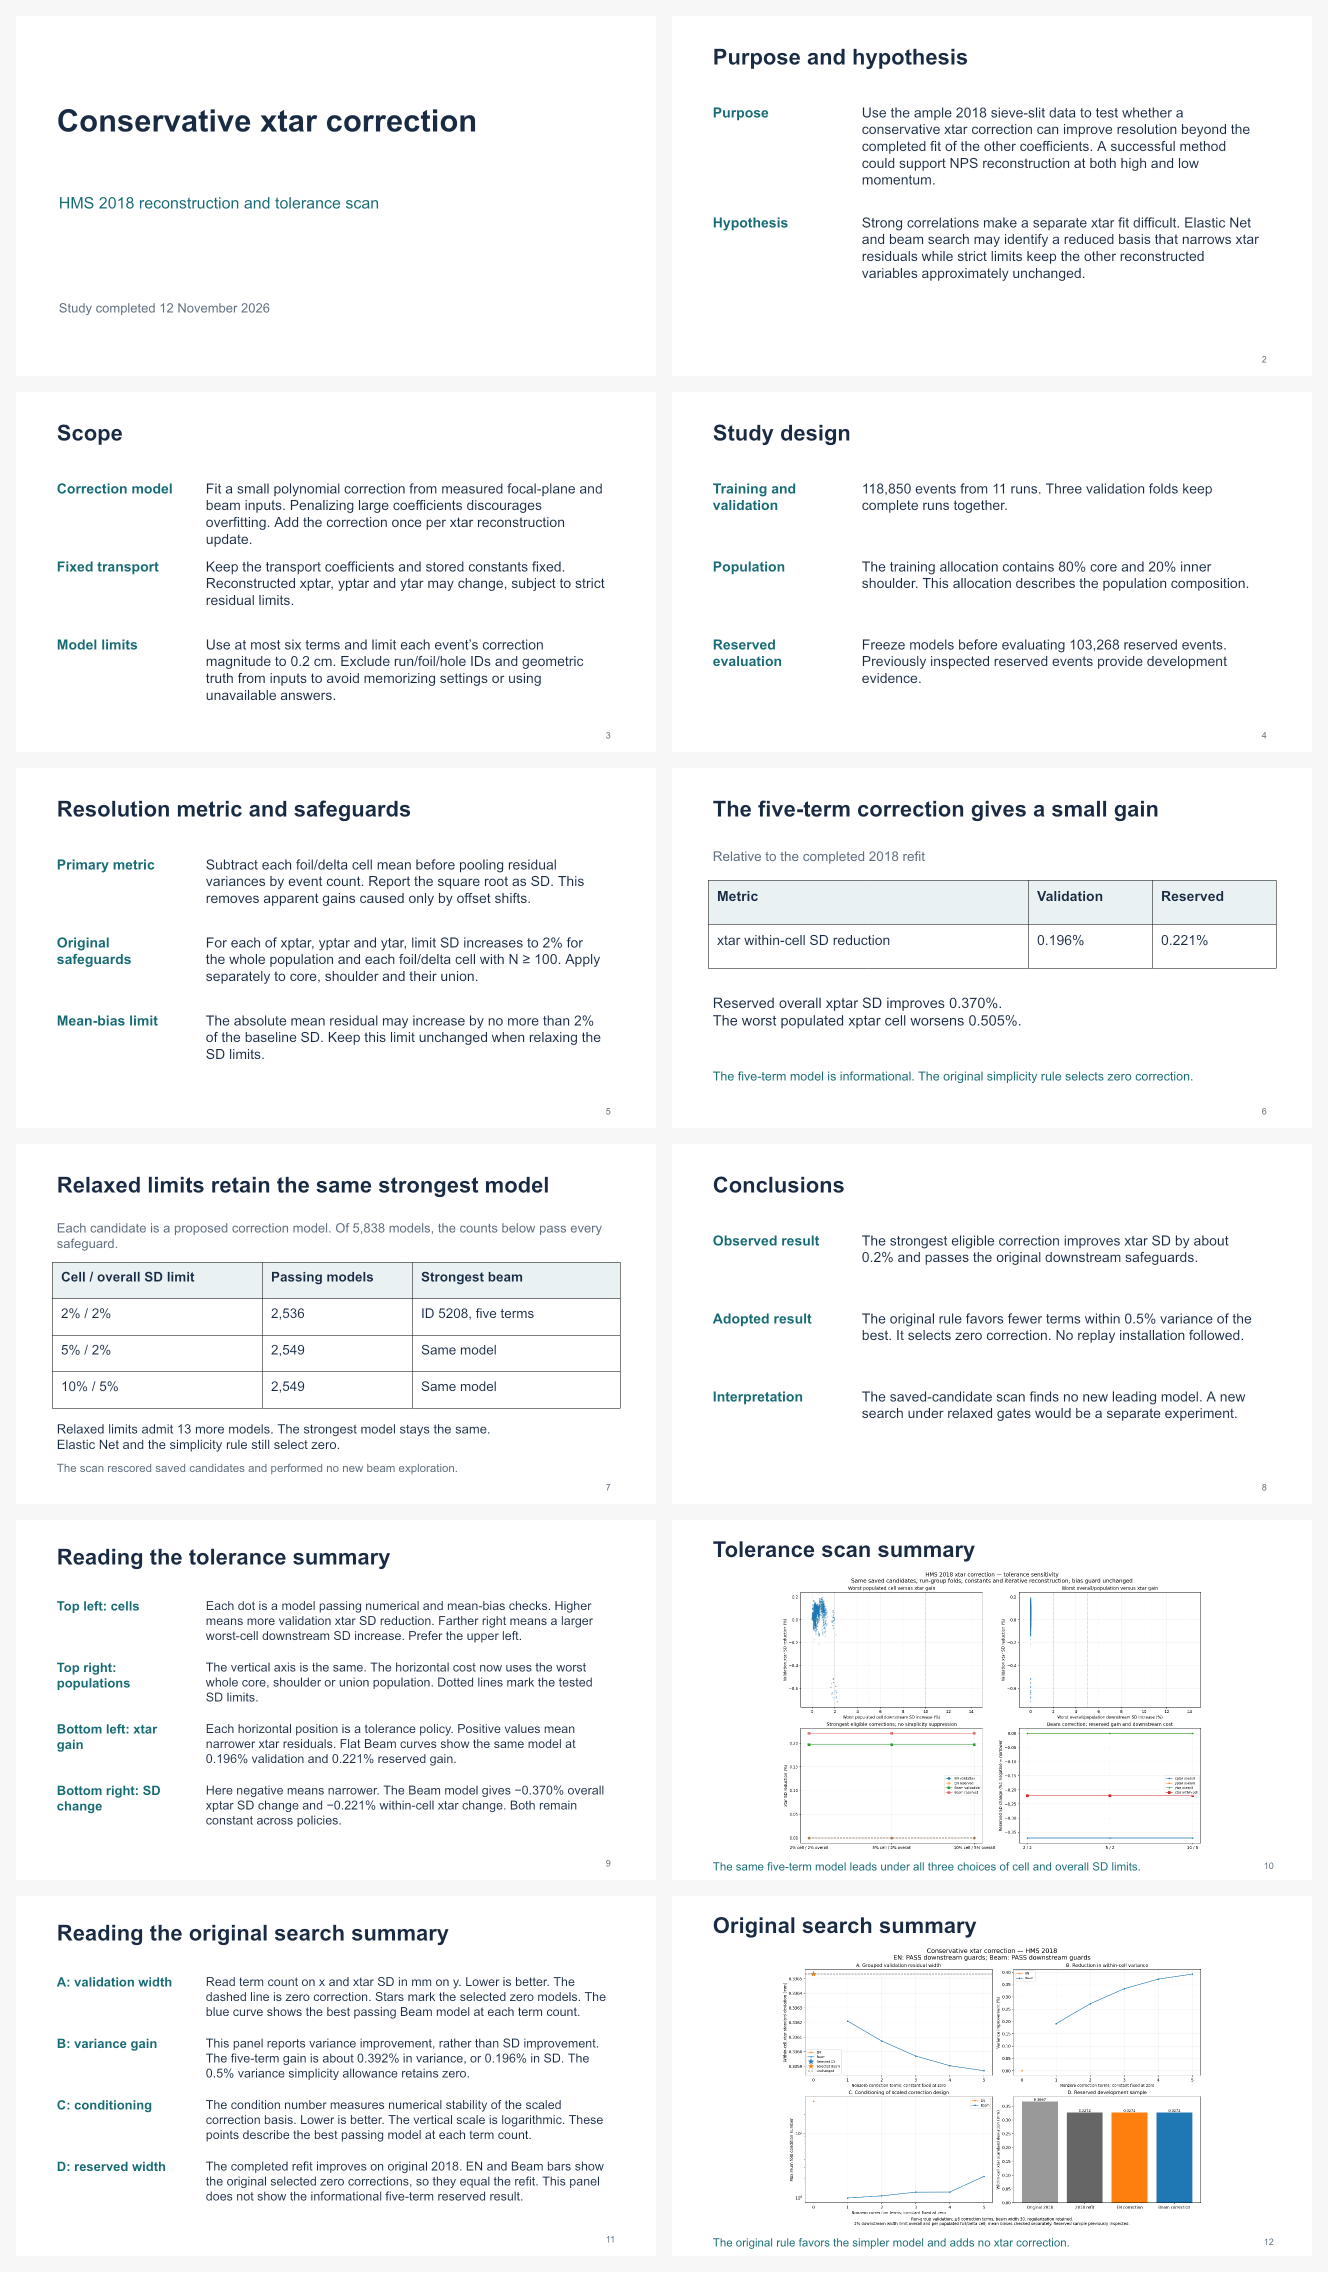
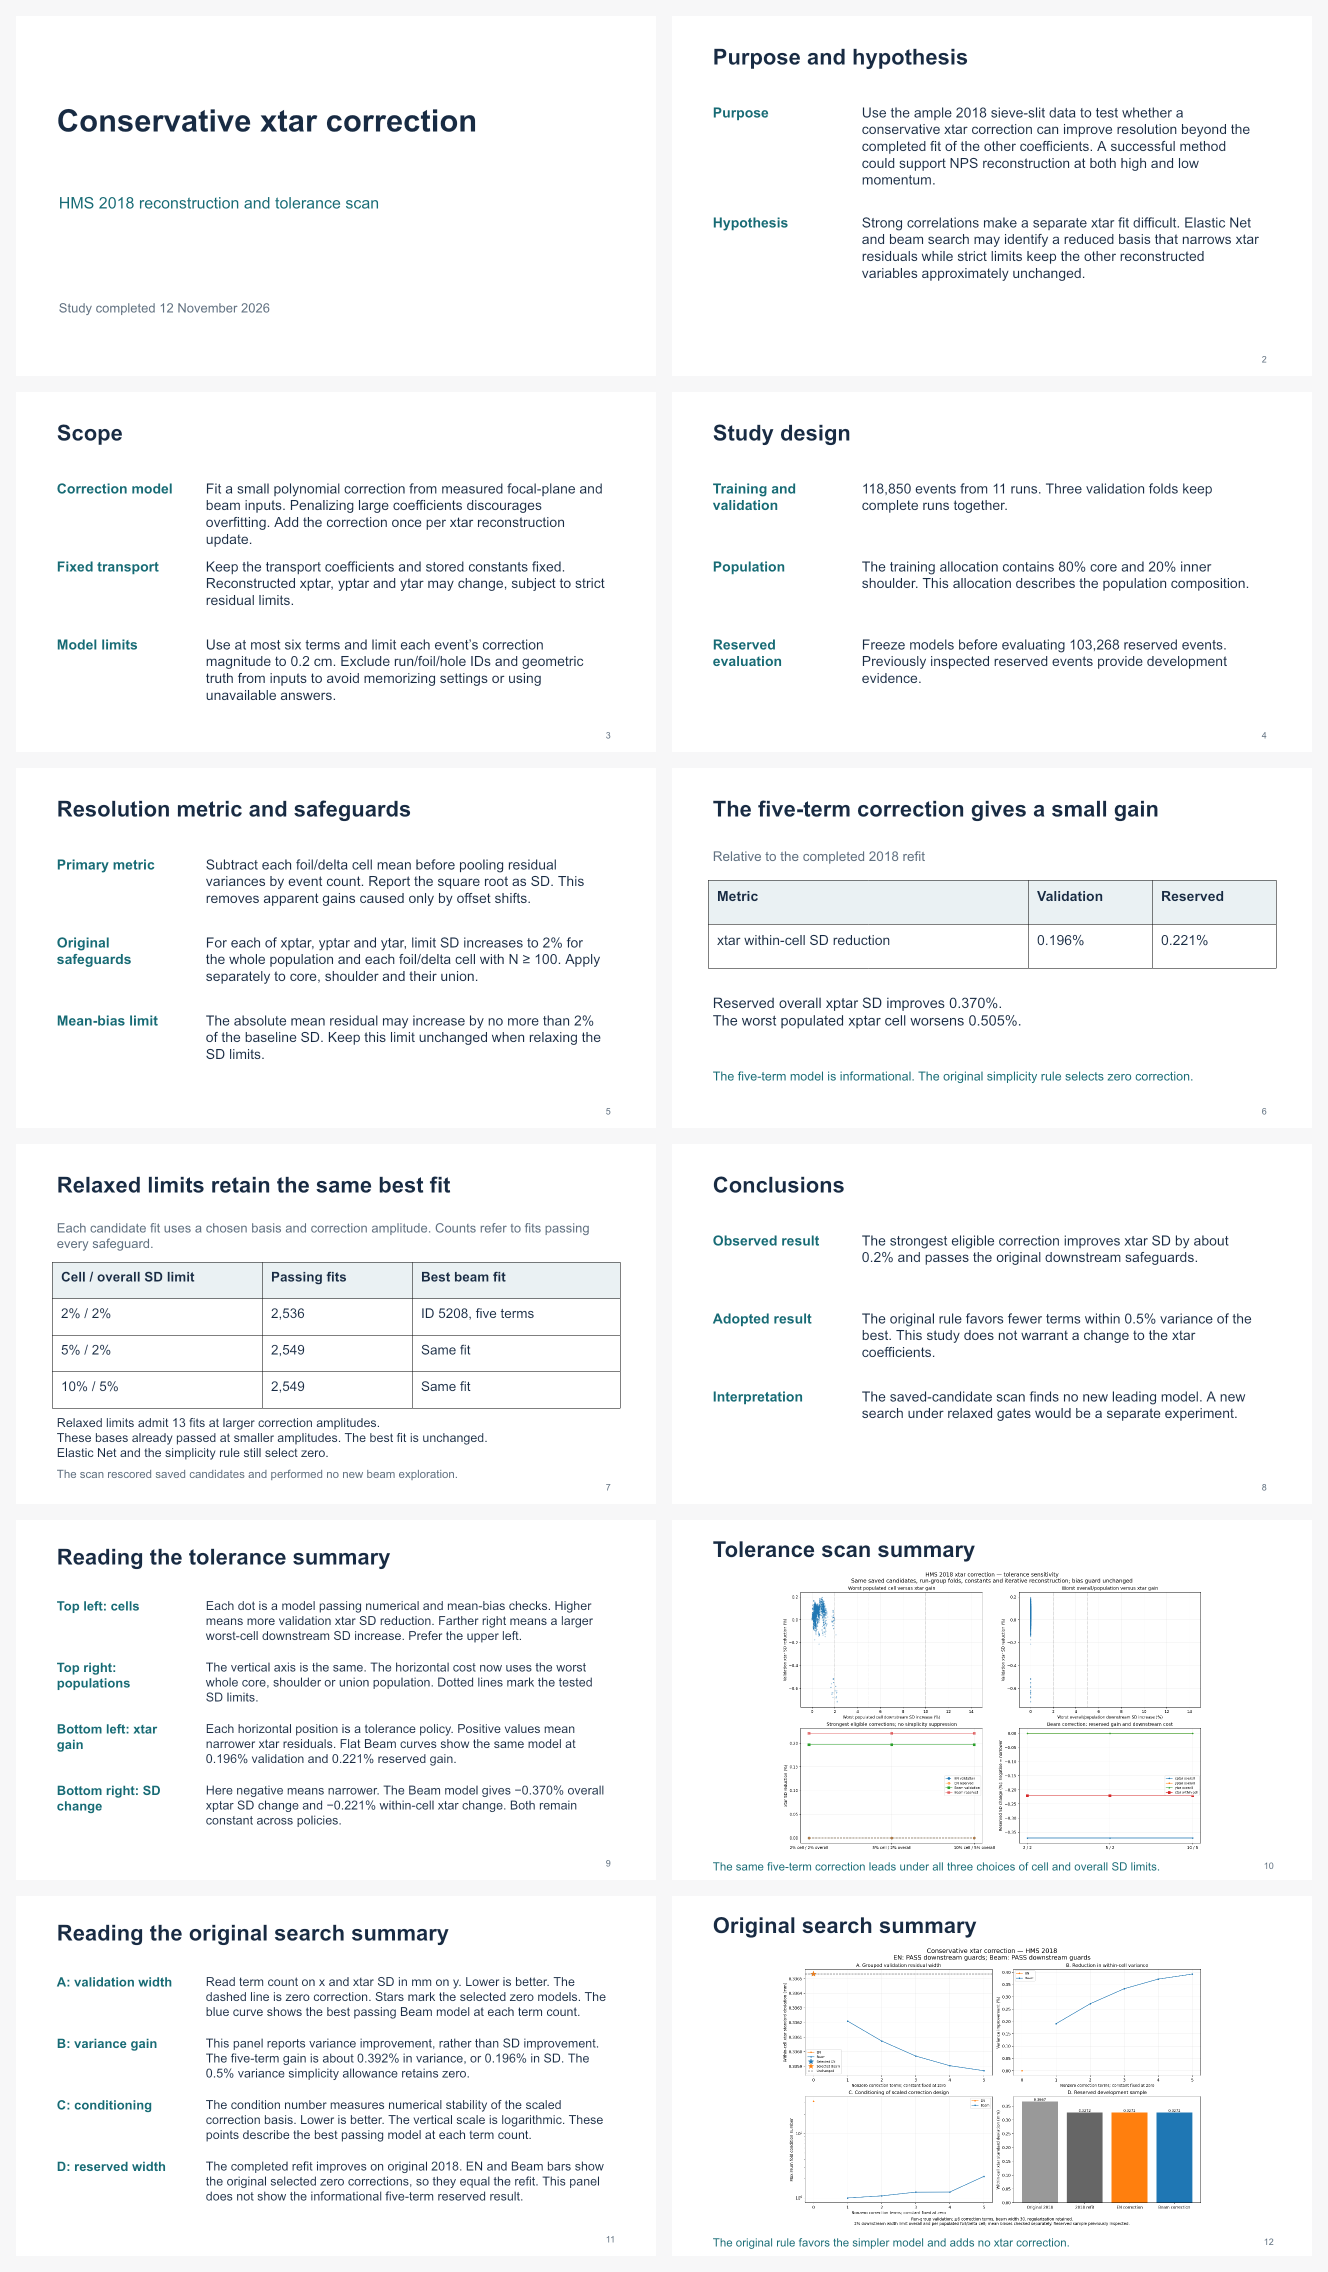
Clarify xtar study conclusion

Changed region(s): [[0.0309, 0.625, 0.3705, 0.6562], [0.3087, 0.5, 0.4014, 0.5625], [0.247, 0.5312, 0.2779, 0.5625]]

diff --git a/STUDY_REFERENCE.md b/STUDY_REFERENCE.md
@@ -245,6 +245,15 @@ the strongest model under the xtar selection metric. The scan performed no
 new beam exploration. Since the original search used strict gates, it may
 have pruned paths to bases that a new relaxed-gate search could explore.
 
+More precisely, these are **13 additional fits at larger correction
+amplitudes**. They use 13 distinct basis masks, but every mask already has a
+fit passing the strict policy at a smaller amplitude. Candidate 268 newly
+passes at amplitude 0.5, and the other twelve newly pass at amplitude 1.0.
+Thus the relaxed limits admit no basis masks that were absent from the strict
+eligible set. This distinction follows from comparing `mask` and `amplitude`
+in `archive/tolerance_scan/candidate_scores.tsv`. “Thirteen new basis
+combinations” would misdescribe this result.
+
 ### Informational five-term model
 
 All changes below compare the strongest eligible correction against the

diff --git a/README.md b/README.md
@@ -16,8 +16,8 @@ development sample.
 The strongest eligible five-term correction reduced xtar residual SD by
 **0.196% in validation** and **0.221% on the reserved sample**, relative to the
 completed 2018 refit. It passed the original downstream safeguards. Relaxing the
-SD limits admitted 13 additional saved candidates but retained the same
-strongest model.
+SD limits admitted 13 additional fits at larger correction amplitudes but
+retained the same best fit. Their bases already passed at smaller amplitudes.
 
 **The original simplicity rule selected zero correction. No correction was
 adopted or installed in replay.** The gain was small, and the scan did not
